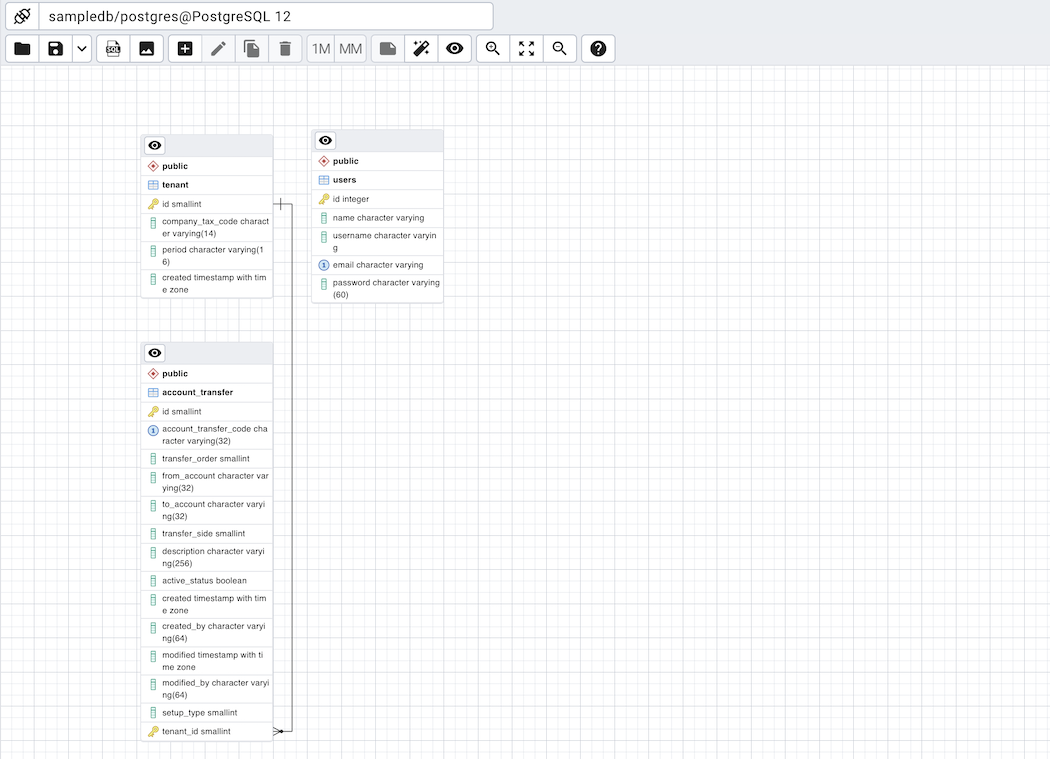
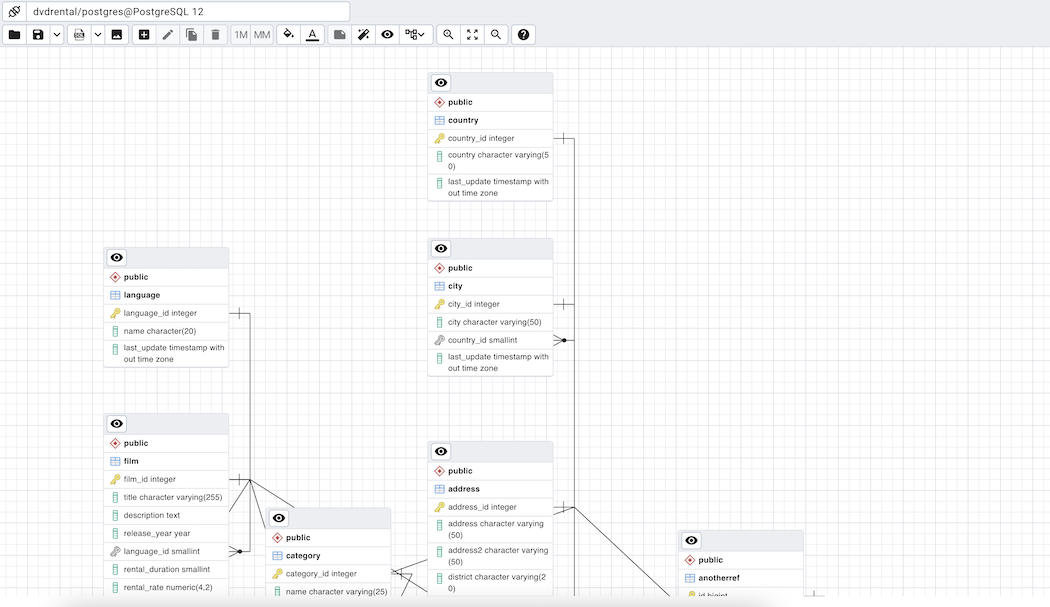
Allow changing cardinality notation in ERD to use Chen notation. #5832

diff --git a/web/pgadmin/tools/erd/static/js/erd_tool/components/ERDTool.jsx b/web/pgadmin/tools/erd/static/js/erd_tool/components/ERDTool.jsx
@@ -141,7 +141,7 @@ class ERDTool extends React.Component {
     _.bindAll(this, ['onLoadDiagram', 'onSaveDiagram', 'onSaveAsDiagram', 'onSQLClick',
       'onImageClick', 'onAddNewNode', 'onEditTable', 'onCloneNode', 'onDeleteNode', 'onNoteClick',
       'onNoteClose', 'onOneToManyClick', 'onManyToManyClick', 'onAutoDistribute', 'onDetailsToggle',
-      'onDetailsToggle', 'onChangeColors', 'onHelpClick', 'onDropNode', 'onBeforeUnload',
+      'onChangeColors', 'onHelpClick', 'onDropNode', 'onBeforeUnload', 'onNotationChange',
     ]);
 
     this.diagram.zoomToFit = this.diagram.zoomToFit.bind(this.diagram);
@@ -293,11 +293,13 @@ class ERDTool extends React.Component {
     this.setLoading(gettext('Preparing...'));
     this.registerEvents();
 
+    const erdPref = this.props.pgWindow.pgAdmin.Browser.get_preferences_for_module('erd');
     this.setState({
-      preferences: this.props.pgWindow.pgAdmin.Browser.get_preferences_for_module('erd'),
+      preferences: erdPref,
       is_new_tab: (this.props.pgWindow.pgAdmin.Browser.get_preferences_for_module('browser').new_browser_tab_open || '')
         .includes('erd_tool'),
       is_close_tab_warning: this.props.pgWindow.pgAdmin.Browser.get_preferences_for_module('browser').confirm_on_refresh_close,
+      cardinality_notation: erdPref.cardinality_notation,
     }, ()=>{
       this.registerKeyboardShortcuts();
       this.setTitle(this.state.current_file);
@@ -557,6 +559,10 @@ class ERDTool extends React.Component {
         node.fireEvent({show_details: this.state.show_details}, 'toggleDetails');
       });
     });
+  }
+
+  onNotationChange(e) {
+    this.setState({cardinality_notation: e.value});
   }
 
   onHelpClick() {
@@ -948,12 +954,17 @@ class ERDTool extends React.Component {
           fgcolor={this.props.params.fgcolor} title={this.props.params.title}/>
         <MainToolBar preferences={this.state.preferences} eventBus={this.eventBus}
           fillColor={this.state.fill_color} textColor={this.state.text_color}
+          notation={this.state.cardinality_notation} onNotationChange={this.onNotationChange}
         />
         <FloatingNote open={this.state.note_open} onClose={this.onNoteClose}
           anchorEl={this.noteRefEle} noteNode={this.state.note_node} appendTo={this.diagramContainerRef.current} rows={8}/>
         <div className={this.props.classes.diagramContainer} data-test="diagram-container" ref={this.diagramContainerRef} onDrop={this.onDropNode} onDragOver={e => {e.preventDefault();}}>
           <Loader message={this.state.loading_msg} autoEllipsis={true}/>
-          <CanvasWidget className={this.props.classes.diagramCanvas} ref={(ele)=>{this.canvasEle = ele?.ref?.current;}} engine={this.diagram.getEngine()} />
+          <ERDCanvasSettings.Provider value={{
+            cardinality_notation: this.state.cardinality_notation
+          }}>
+            <CanvasWidget className={this.props.classes.diagramCanvas} ref={(ele)=>{this.canvasEle = ele?.ref?.current;}} engine={this.diagram.getEngine()} />
+          </ERDCanvasSettings.Provider>
         </div>
       </Box>
     );
@@ -981,3 +992,5 @@ ERDTool.propTypes = {
   panel: PropTypes.object,
   classes: PropTypes.object,
 };
+
+export const ERDCanvasSettings = React.createContext({});

diff --git a/web/pgadmin/tools/erd/static/js/erd_tool/components/MainToolBar.jsx b/web/pgadmin/tools/erd/static/js/erd_tool/components/MainToolBar.jsx
@@ -27,6 +27,7 @@ import VisibilityOffRoundedIcon from '@material-ui/icons/VisibilityOffRounded';
 import ImageRoundedIcon from '@material-ui/icons/ImageRounded';
 import FormatColorFillRoundedIcon from '@material-ui/icons/FormatColorFillRounded';
 import FormatColorTextRoundedIcon from '@material-ui/icons/FormatColorTextRounded';
+import AccountTreeOutlinedIcon from '@material-ui/icons/AccountTreeOutlined';
 
 import { PgMenu, PgMenuItem, usePgMenuGroup } from '../../../../../../static/js/components/Menu';
 import gettext from 'sources/gettext';
@@ -69,7 +70,7 @@ const useStyles = makeStyles((theme)=>({
   }),
 }));
 
-export function MainToolBar({preferences, eventBus, fillColor, textColor}) {
+export function MainToolBar({preferences, eventBus, fillColor, textColor, notation, onNotationChange}) {
   const classes = useStyles({fillColor,textColor});
   const theme = useTheme();
   const [buttonsDisabled, setButtonsDisabled] = useState({
@@ -86,6 +87,7 @@ export function MainToolBar({preferences, eventBus, fillColor, textColor}) {
   const {openMenuName, toggleMenu, onMenuClose} = usePgMenuGroup();
   const saveAsMenuRef = React.useRef(null);
   const sqlMenuRef = React.useRef(null);
+  const notationMenuRef = React.useRef(null);
   const isDirtyRef = React.useRef(null);
   const [checkedMenuItems, setCheckedMenuItems] = React.useState({});
   const modal = useModal();
@@ -283,6 +285,9 @@ export function MainToolBar({preferences, eventBus, fillColor, textColor}) {
               eventBus.fireEvent(ERD_EVENTS.TOGGLE_DETAILS);
               setShowDetails((prev)=>!prev);
             }} />
+          <PgIconButton title={gettext('Cardinality Notation')} icon={
+            <><AccountTreeOutlinedIcon /><KeyboardArrowDownIcon style={{marginLeft: '-10px'}} /></>}
+          name="menu-notation" ref={notationMenuRef} onClick={toggleMenu} />
         </PgButtonGroup>
         <PgButtonGroup size="small">
           <PgIconButton title={gettext('Zoom In')} icon={<ZoomInIcon />}
@@ -323,6 +328,16 @@ export function MainToolBar({preferences, eventBus, fillColor, textColor}) {
       >
         <PgMenuItem hasCheck value="sql_with_drop" checked={checkedMenuItems['sql_with_drop']} onClick={checkMenuClick}>{gettext('With DROP Table')}</PgMenuItem>
       </PgMenu>
+      <PgMenu
+        anchorRef={notationMenuRef}
+        open={openMenuName=='menu-notation'}
+        onClose={onMenuClose}
+        label={gettext('Cardinality Notation')}
+
+      >
+        <PgMenuItem hasCheck closeOnCheck value="crows" checked={notation == 'crows'} onClick={onNotationChange}>{gettext('Crow\'s Foot Notation')}</PgMenuItem>
+        <PgMenuItem hasCheck closeOnCheck value="chen" checked={notation == 'chen'} onClick={onNotationChange}>{gettext('Chen Notation')}</PgMenuItem>
+      </PgMenu>
     </>
   );
 }
@@ -332,6 +347,8 @@ MainToolBar.propTypes = {
   eventBus: PropTypes.object,
   fillColor: PropTypes.string,
   textColor: PropTypes.string,
+  notation: PropTypes.string,
+  onNotationChange: PropTypes.func,
 };
 
 const ColorButton = withColorPicker(PgIconButton);

diff --git a/web/pgadmin/tools/erd/static/js/erd_tool/links/OneToManyLink.jsx b/web/pgadmin/tools/erd/static/js/erd_tool/links/OneToManyLink.jsx
@@ -7,7 +7,7 @@
 //
 //////////////////////////////////////////////////////////////
 
-import React, { forwardRef } from 'react';
+import React, { forwardRef, useContext } from 'react';
 import {
   RightAngleLinkModel,
   RightAngleLinkWidget,
@@ -21,6 +21,7 @@ import _ from 'lodash';
 import PropTypes from 'prop-types';
 import { makeStyles } from '@material-ui/core';
 import clsx from 'clsx';
+import { ERDCanvasSettings } from '../components/ERDTool';
 
 export const POINTER_SIZE = 30;
 
@@ -81,6 +82,7 @@ export class OneToManyLinkModel extends RightAngleLinkModel {
 const useStyles = makeStyles((theme)=>({
   svgLink: {
     stroke: theme.palette.text.primary,
+    fontSize: '0.8em',
   },
   '@keyframes svgLinkSelected': {
     'from': { strokeDashoffset: 24},
@@ -99,15 +101,37 @@ const useStyles = makeStyles((theme)=>({
   }
 }));
 
-const CustomLinkEndWidget = props => {
+function ChenNotation({rotation, type}) {
+  const classes = useStyles();
+  const textX = Math.sign(rotation) > 0 ? -14 : 8;
+  const textY = -5;
+  return (
+    <>
+      <text className={classes.svgLink} x={textX} y={textY} transform={'rotate(' + -rotation + ')' }>
+        {type == 'one' ? '1' : 'N'}
+      </text>
+      <line className={classes.svgLink} x1="0" y1="0" x2="0" y2="30"></line>
+    </>
+  );
+}
+ChenNotation.propTypes = {
+  rotation: PropTypes.number,
+  type: PropTypes.string,
+};
+
+function CustomLinkEndWidget(props) {
   const { point, rotation, tx, ty, type } = props;
   const classes = useStyles();
+  const settings = useContext(ERDCanvasSettings);
 
   const svgForType = (itype) => {
+    if(settings.cardinality_notation == 'chen') {
+      return <ChenNotation rotation={rotation} type={itype} />;
+    }
     if(itype == 'many') {
       return (
         <>
-          <circle className={clsx(classes.svgLink, classes.svgLinkCircle)} cx="0" cy="16" r={props.width*1.75} strokeWidth={props.width} />
+          <circle className={clsx(classes.svgLink, classes.svgLinkCircle)} cx="0" cy="16" r={props.width*2.5} strokeWidth={props.width} />
           <polyline className={classes.svgLink} points="-8,0 0,15 0,0 0,30 0,15 8,0" fill="none" strokeWidth={props.width} />
         </>
       );
@@ -127,7 +151,7 @@ const CustomLinkEndWidget = props => {
       </g>
     </g>
   );
-};
+}
 
 CustomLinkEndWidget.propTypes = {
   point: PropTypes.instanceOf(PointModel).isRequired,

diff --git a/web/pgadmin/tools/erd/static/js/erd_tool/nodes/TableNode.jsx b/web/pgadmin/tools/erd/static/js/erd_tool/nodes/TableNode.jsx
@@ -202,6 +202,17 @@ const styles = (theme)=>({
     padding: '0.125rem 0.25rem',
     display: 'flex',
   },
+  columnSection: {
+    display:'flex',
+    width: '100%' ,
+    ...theme.mixins.panelBorder.bottom,
+  },
+  columnName: {
+    display:'flex',
+    width: '100%' ,
+    padding: '0.125rem 0.25rem',
+    wordBreak: 'break-all',
+  },
   tableToolbar: {
     background: theme.otherVars.editorToolbarBg,
     borderTopLeftRadius: 'inherit',
@@ -269,11 +280,11 @@ class TableNodeWidgetRaw extends React.Component {
 
     const {classes} = this.props;
     return (
-      <div className={classes.tableSection} key={col.attnum} data-test="column-row">
+      <Box className={classes.columnSection} key={col.attnum} data-test="column-row">
         <Box marginRight="auto" padding="0" minHeight="0" display="flex" alignItems="center">
           {this.generatePort(leftPort)}
         </Box>
-        <Box display="flex" width="100%" style={{wordBreak: 'break-all'}}>
+        <Box className={classes.columnName}>
           <RowIcon icon={icon} />
           <Box margin="auto 0">
             <span data-test="column-name">{col.name}</span>&nbsp;
@@ -284,7 +295,7 @@ class TableNodeWidgetRaw extends React.Component {
         <Box marginLeft="auto" padding="0" minHeight="0" display="flex" alignItems="center">
           {this.generatePort(rightPort)}
         </Box>
-      </div>
+      </Box>
     );
   }
 

diff --git a/web/regression/javascript/erd/erd_core_spec.js b/web/regression/javascript/erd/erd_core_spec.js
@@ -291,13 +291,6 @@ describe('ERDCore', ()=>{
       ]));
     });
 
-    it('dagreDistributeNodes', ()=>{
-      spyOn(erdCoreObj.dagre_engine, 'redistribute');
-      erdCoreObj.dagreDistributeNodes();
-      expect(erdEngine.getLinkFactories().getFactory().calculateRoutingMatrix).toHaveBeenCalled();
-      expect(erdCoreObj.dagre_engine.redistribute).toHaveBeenCalledWith(erdEngine.getModel());
-    });
-
     it('zoomIn', ()=>{
       spyOn(erdEngine.getModel(), 'getZoomLevel').and.returnValue(100);
       spyOn(erdCoreObj, 'repaint');

diff --git a/web/pgadmin/tools/erd/__init__.py b/web/pgadmin/tools/erd/__init__.py
@@ -400,6 +400,31 @@ class ERDModule(PgAdminModule):
             )
         )
 
+        self.preference.register(
+            'options', 'cardinality_notation',
+            gettext('Cardinality Notation'), 'radioModern', 'crows',
+            category_label=PREF_LABEL_OPTIONS, options=[
+                {'label': gettext('Crow\'s foot'), 'value': 'crows'},
+                {'label': gettext('Chen'), 'value': 'chen'},
+            ],
+            help_str=gettext(
+                'Notation to be used to present cardinality.'
+            )
+        )
+
+        self.preference.register(
+            'options',
+            'sql_with_drop',
+            gettext('SQL With DROP Table'),
+            'boolean',
+            False,
+            category_label=PREF_LABEL_OPTIONS,
+            help_str=gettext(
+                'If enabled, the SQL generated by the ERD Tool will add '
+                'DROP table DDL before each CREATE table DDL.'
+            )
+        )
+
 
 blueprint = ERDModule(MODULE_NAME, __name__, static_url_path='/static')
 

diff --git a/docs/en_US/erd_tool.rst b/docs/en_US/erd_tool.rst
@@ -135,18 +135,21 @@ Utility Options
    :class: longtable
    :widths: 1 4 1
 
-   +----------------------+---------------------------------------------------------------------------------------------------+----------------+
-   | Icon                 | Behavior                                                                                          | Shortcut       |
-   +======================+===================================================================================================+================+
-   | *Add/Edit note*      | Click this button to make notes on tables nodes while designing the database.                     | Option/Alt +   |
-   |                      |                                                                                                   | Ctrl + N       |
-   +----------------------+---------------------------------------------------------------------------------------------------+----------------+
-   | *Auto align*         | Click this button to auto align all tables and links to make it look more cleaner.                | Option/Alt +   |
-   |                      |                                                                                                   | Ctrl + L       |
-   +----------------------+---------------------------------------------------------------------------------------------------+----------------+
-   | *Show details*       | Click this button to toggle the column details visibility. It allows you to show few or more      | Option/Alt +   |
-   |                      | column details.                                                                                   | Shift + D      |
-   +----------------------+---------------------------------------------------------------------------------------------------+----------------+
+   +-------------------------+------------------------------------------------------------------------------------------------+----------------+
+   | Icon                    | Behavior                                                                                       | Shortcut       |
+   +=========================+================================================================================================+================+
+   | *Add/Edit note*         | Click this button to make notes on tables nodes while designing the database.                  | Option/Alt +   |
+   |                         |                                                                                                | Ctrl + N       |
+   +-------------------------+------------------------------------------------------------------------------------------------+----------------+
+   | *Auto align*            | Click this button to auto align all tables and links to make it look more cleaner.             | Option/Alt +   |
+   |                         |                                                                                                | Ctrl + L       |
+   +-------------------------+------------------------------------------------------------------------------------------------+----------------+
+   | *Show details*          | Click this button to toggle the column details visibility. It allows you to show few or more   | Option/Alt +   |
+   |                         | column details.                                                                                | Shift + D      |
+   +-------------------------+------------------------------------------------------------------------------------------------+----------------+
+   | *Cardinality Notation*  | Change the cardinality notation format used to present relationship links. Options available   |                |
+   |                         | are - Crow's Foot Notation and Chen Notation.                                                  |                |
+   +-------------------------+------------------------------------------------------------------------------------------------+----------------+
 
 Zoom Options
 ************
